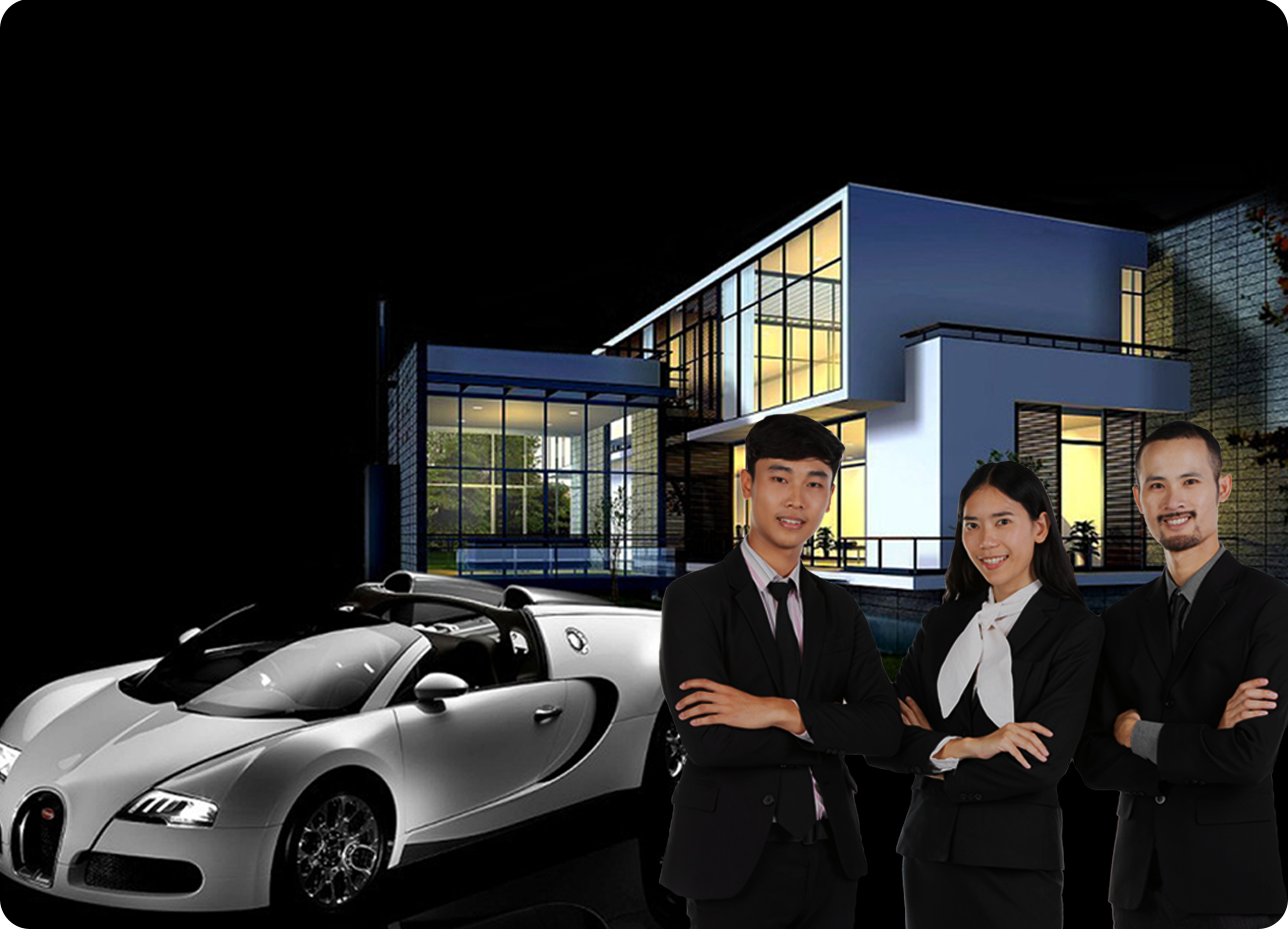
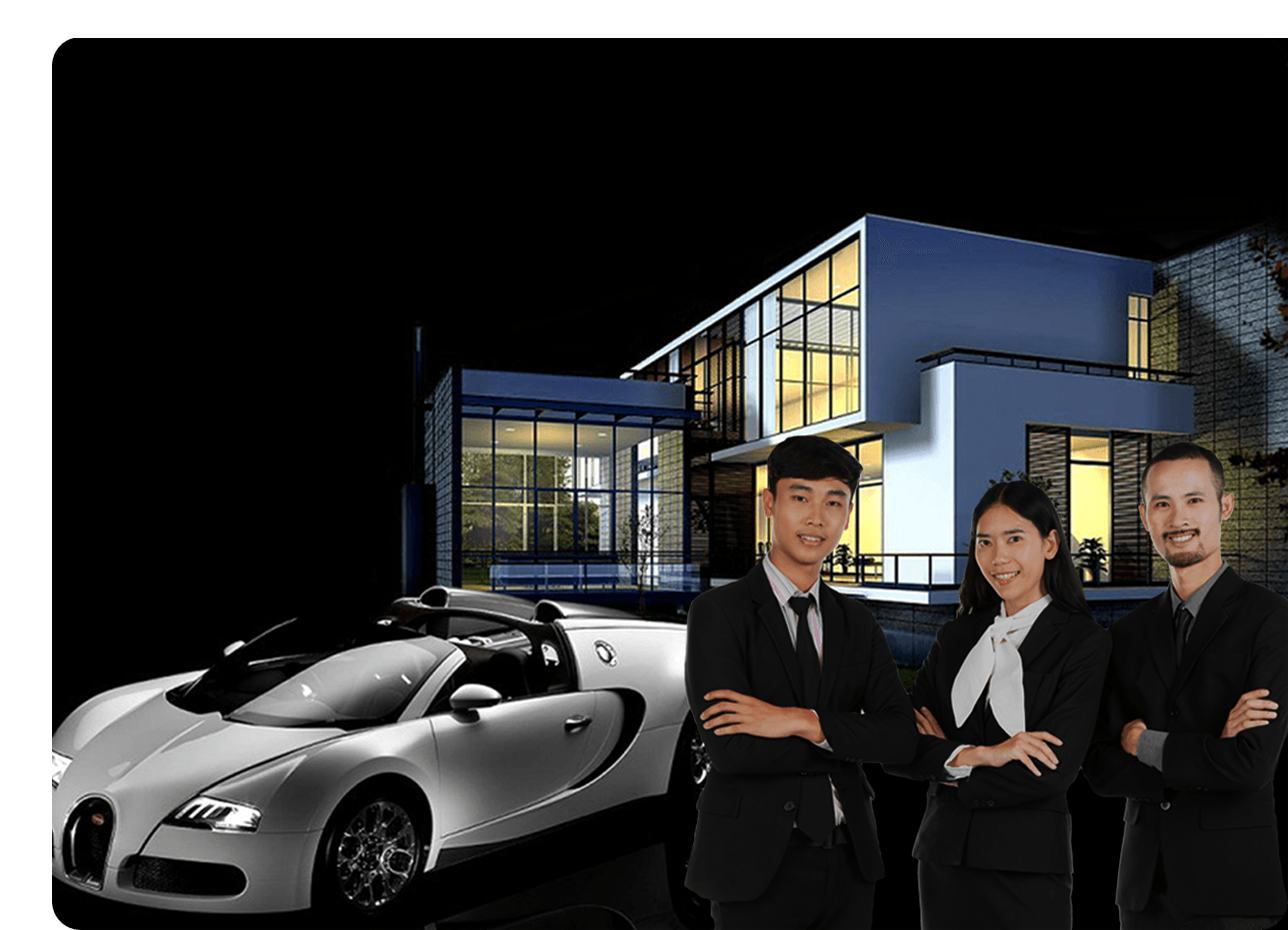
0716-内页修改

diff --git a/src/scss/CustomStyle.scss b/src/scss/CustomStyle.scss
@@ -245,9 +245,12 @@ body {
                     font-size: 32px;
                 }
                 .ItemBox {
-                    padding-left: 40px;
-                    margin-left: 0;
-                    padding-right: 0;
+                    margin: 60px 0 0 0;
+                    padding: 0 0 0 40px;
+                    // padding-left: 40px;
+                    // margin-left: 0;
+                    // padding-right: 0;
+                    // margin-top: 60px;
                 }
                 .ItemBox li {
                     counter-increment: step-counter;
@@ -269,9 +272,9 @@ body {
                 }
             }
             .box02 {
-                box-shadow: 2px 2px 2px rgba(15, 14, 16, 0.15), 4px 4px 6px rgba(15, 14, 16, 0.2), 6px 6px 12px rgba(15, 14, 16, 0.5);
-                border-radius: 25px;
-                border: 10px solid #00000059;
+                // box-shadow: 2px 2px 2px rgba(15, 14, 16, 0.15), 4px 4px 6px rgba(15, 14, 16, 0.2), 6px 6px 12px rgba(15, 14, 16, 0.5);
+                // border-radius: 25px;
+                // border: 10px solid #00000059;
                 width: 800px;
                 img {
                     width: 100%;
@@ -316,6 +319,17 @@ body {
                     height: auto;
                 }
             }
+            // .bottom-bg {
+            //     background-image: url(../images/pg06/item-bottom.png);
+            // }
+            &:after {
+                content: url(../images/pg06/item-bottom.png);
+                position: fixed;
+                margin-top: 330px;
+                left: 0;
+                width: 100%;
+                height: 200px;
+            }
         }
         &:nth-child(1) {
             background-color: #0c131d;
@@ -328,7 +342,7 @@ body {
             background-image: linear-gradient(-150deg, rgb(20, 20, 20) 10%,rgb(9, 32, 58) 50%, rgb(20, 20, 20) 100%);
         }
         &:nth-child(4) {
-            background-image: linear-gradient(150deg, rgb(20, 20, 20) 10%, rgb(9, 32, 58) 50%, rgb(20, 20, 20) 100%);
+            background-image: linear-gradient(150deg, rgb(20, 20, 20) 10%,rgb(9, 32, 58) 50%, rgb(20, 20, 20) 100%);
         }
         &:nth-child(5) {
             background-image: linear-gradient(-150deg, rgb(20, 20, 20) 10%, rgb(9, 32, 58) 50%, rgb(20, 20, 20) 100%);

diff --git a/dist/css/CustomStyle.css b/dist/css/CustomStyle.css
@@ -348,9 +348,8 @@ body {
 }
 
 .wrap section.PageBox .PBi-05 .box01 .ItemBox {
-  padding-left: 40px;
-  margin-left: 0;
-  padding-right: 0;
+  margin: 60px 0 0 0;
+  padding: 0 0 0 40px;
 }
 
 .wrap section.PageBox .PBi-05 .box01 .ItemBox li {
@@ -375,9 +374,6 @@ body {
 }
 
 .wrap section.PageBox .PBi-05 .box02 {
-  box-shadow: 2px 2px 2px rgba(15, 14, 16, 0.15), 4px 4px 6px rgba(15, 14, 16, 0.2), 6px 6px 12px rgba(15, 14, 16, 0.5);
-  border-radius: 25px;
-  border: 10px solid #00000059;
   width: 800px;
 }
 
@@ -435,6 +431,15 @@ body {
 .wrap section.PageBox .PBi-06 .box02 img {
   width: 100%;
   height: auto;
+}
+
+.wrap section.PageBox .PBi-06:after {
+  content: url(../images/pg06/item-bottom.png);
+  position: fixed;
+  margin-top: 330px;
+  left: 0;
+  width: 100%;
+  height: 200px;
 }
 
 .wrap section.PageBox:nth-child(1) {
